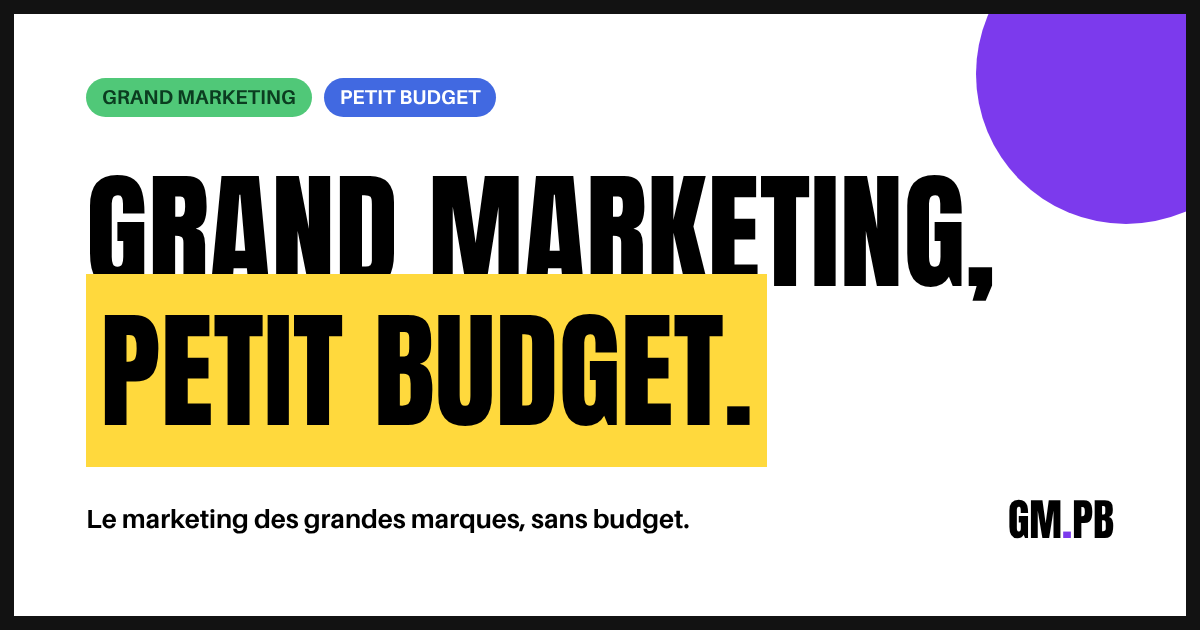
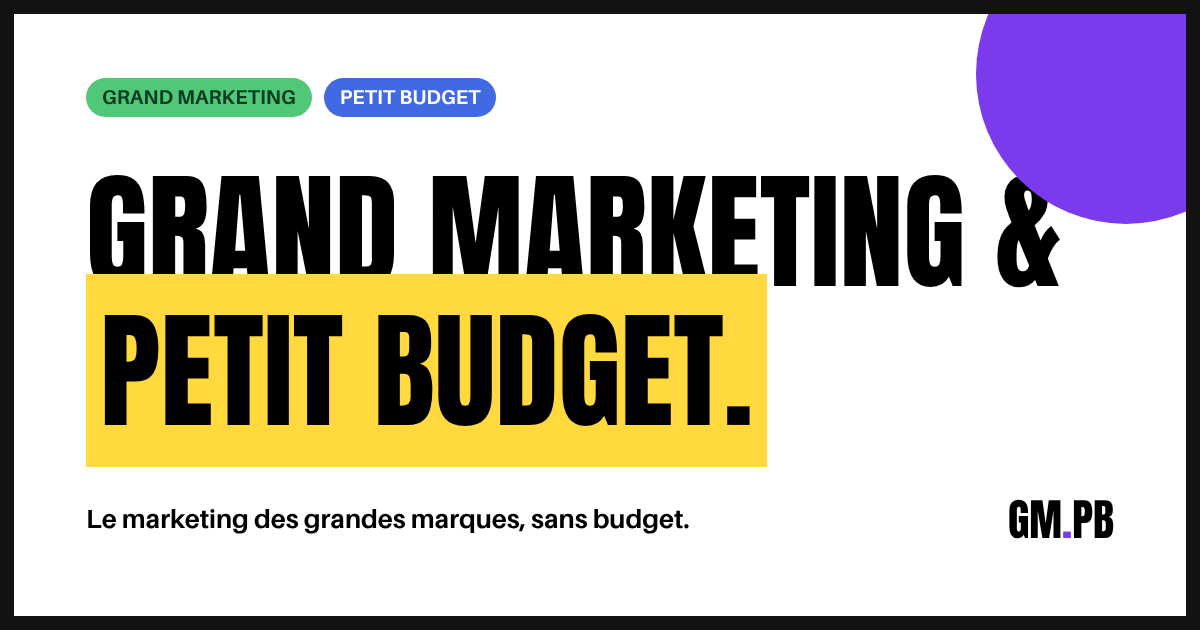
Corrections : « & » dans le nom, titres et marges sur mobile, case du contact
- « Grand Marketing & Petit Budget » (titre d'accueil, image de partage, textes)
- Mobile : « MARKETING » et « TRADUIT » ne sont plus coupés
- Mobile : espace sous le bloc auteur des articles
- Mobile : marges de « Mon parcours » et « Travailler ensemble » (et pages légales)
- Contact : texte de la case à cocher d'un seul tenant

Claude-Session: https://claude.ai/code/session_01HPGTW1i5drfDZns4pkbBr6

Changed region(s): [[0.8017, 0.2714, 0.8942, 0.4825]]

diff --git a/src/assets/css/style.css b/src/assets/css/style.css
@@ -1,5 +1,5 @@
 /* =========================================================
-   GM.PB — Grand Marketing, Petit Budget
+   GM.PB — Grand Marketing & Petit Budget
    Feuille de style commune à toutes les pages
    ========================================================= */
 
@@ -152,8 +152,9 @@ button { font: inherit; color: inherit; cursor: pointer; }
 .search-suggest a { border: var(--border); border-radius: 999px; padding: 7px 14px; font-weight: 600; font-size: 14px; }
 
 /* ---------- Sections communes ---------- */
-.section { padding: 80px 0; }
-.section-tight { padding: 56px 0; }
+.section { padding-top: 80px; padding-bottom: 80px; }
+.section-tight { padding-top: 56px; padding-bottom: 56px; }
+.nowrap { white-space: nowrap; }
 .section-dark { background: var(--ink); color: #fff; }
 .section-dark a:hover { color: var(--yellow); }
 .section-head { display: flex; flex-wrap: wrap; align-items: flex-end; justify-content: space-between; gap: 16px; margin-bottom: 32px; }
@@ -337,13 +338,16 @@ button { font: inherit; color: inherit; cursor: pointer; }
 }
 @media (max-width: 640px) {
   body { font-size: 16px; }
-  .wrap, .wrap-narrow { padding: 0 16px; }
+  .wrap, .wrap-narrow { padding-left: 16px; padding-right: 16px; }
   .nav { padding-top: 10px; padding-bottom: 10px; }
   .logo { font-size: 28px; }
   .h-1 { font-size: 38px; }
-  .display { overflow-wrap: break-word; hyphens: auto; }
+  .display { overflow-wrap: break-word; hyphens: manual; }
+  .h-hero { font-size: clamp(44px, 13.4vw, 64px); }
+  .intro-text .h-2 { font-size: clamp(28px, 9vw, 40px); }
+  .article-head { padding-bottom: 36px; }
   .icon-btn { width: 44px; height: 44px; }
-  .section { padding: 56px 0; }
+  .section { padding-top: 56px; padding-bottom: 56px; }
   .hero { padding-top: 36px; gap: 28px; }
   .featured .ph { min-height: 220px; }
   .featured-body { padding: 24px; }

diff --git a/README.md b/README.md
@@ -1,4 +1,4 @@
-# Grand Marketing, Petit Budget (GM.PB)
+# Grand Marketing & Petit Budget (GM.PB)
 
 Le site de GM.PB : un site statique (Eleventy) hébergé gratuitement sur Cloudflare Pages, avec un back office (Sveltia CMS) pour écrire les articles.
 
